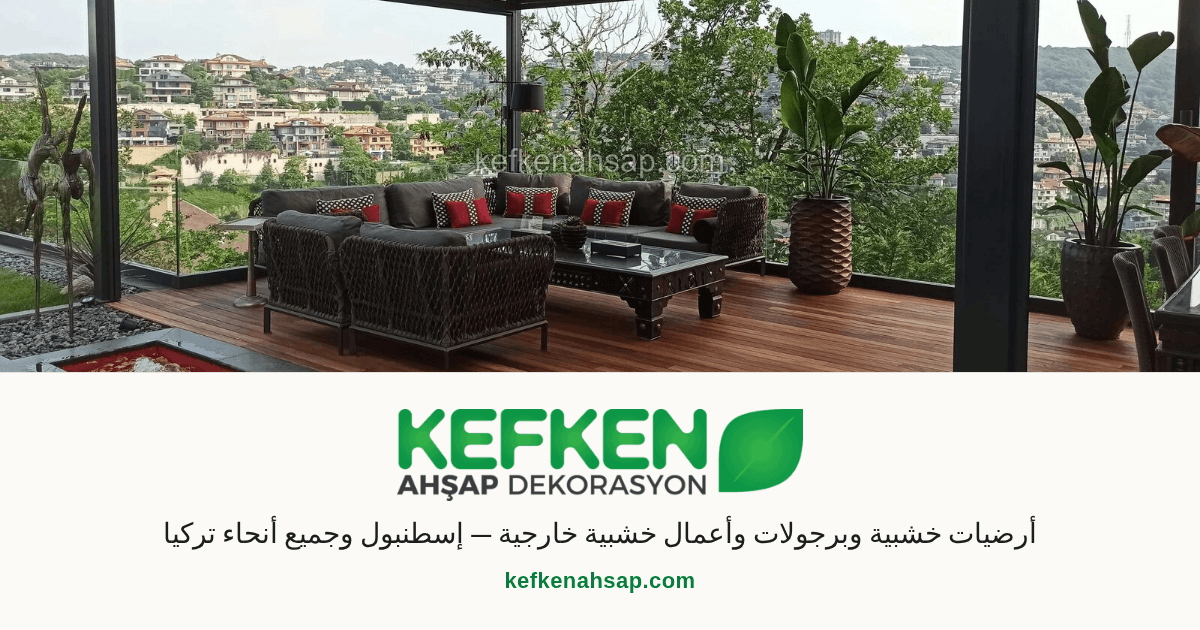
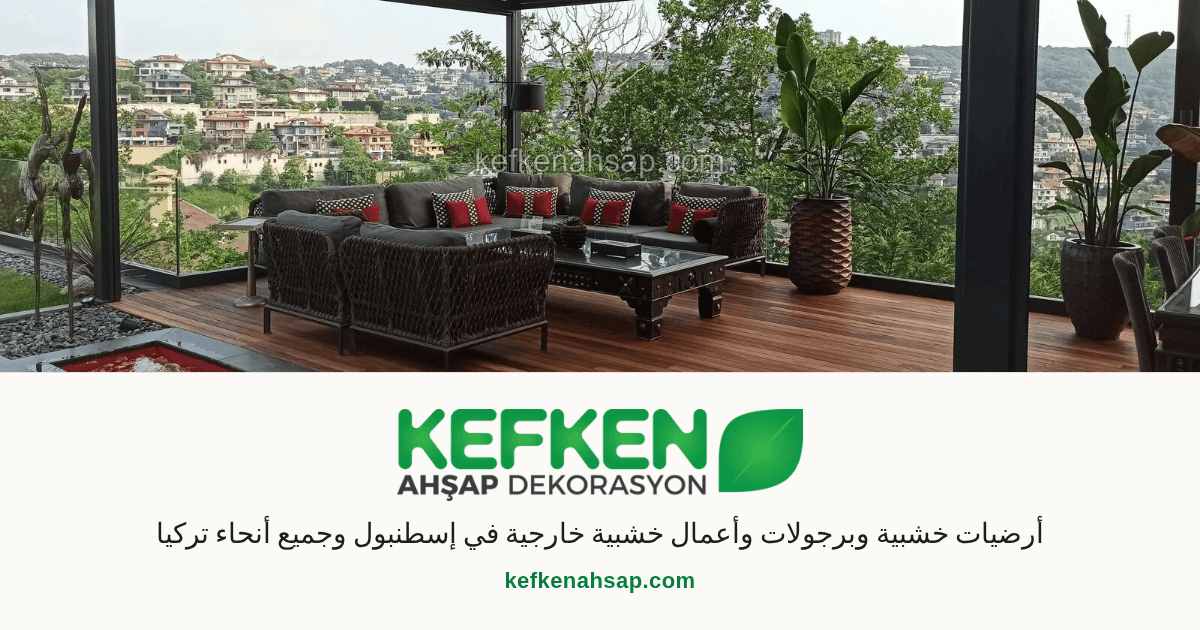
chore(seo): share card tagline as one plain sentence, no dash (#201)

Changed region(s): [[0.1233, 0.8143, 0.8633, 0.8746]]

diff --git a/src/lib/seo/page-metadata.ts b/src/lib/seo/page-metadata.ts
@@ -15,7 +15,7 @@ type Args = Omit<Parameters<typeof buildMetadata>[0], 'siteName' | 'site' | 'loc
 /** The site-wide share card of `locale` (see siteOgImage); its alt is the text the generated card shows. */
 export async function siteOgImageFor(locale: Locale, defaultOgImage: unknown) {
   const t = await getTranslations({ locale, namespace: 'Site' })
-  return siteOgImage(locale, defaultOgImage, `${t('name')} — ${t('tagline')}`)
+  return siteOgImage(locale, defaultOgImage, `${t('name')}: ${t('tagline')}`)
 }
 
 /** `generateMetadata` helper for every public page: see buildMetadata. */

diff --git a/src/lib/seo/metadata.test.ts b/src/lib/seo/metadata.test.ts
@@ -8,7 +8,7 @@ import { routing } from '@/i18n/routing'
 import { buildMetadata, fullTitle, siteOgImage } from './metadata'
 
 const SITE = 'https://www.kefkenahsap.com'
-const ALT = 'Kefken Ahşap Dekorasyon — Ahşap deck, pergola'
+const ALT = 'Kefken Ahşap Dekorasyon: Ahşap deck, pergola'
 const card = { url: '/og-tr.png', width: 1200, height: 630, alt: ALT }
 const base = { siteName: 'Kefken Ahşap Dekorasyon', site: SITE, title: 'Deck ve Zeminler', description: 'Iroko ve teak deck.', ogImage: card }
 
